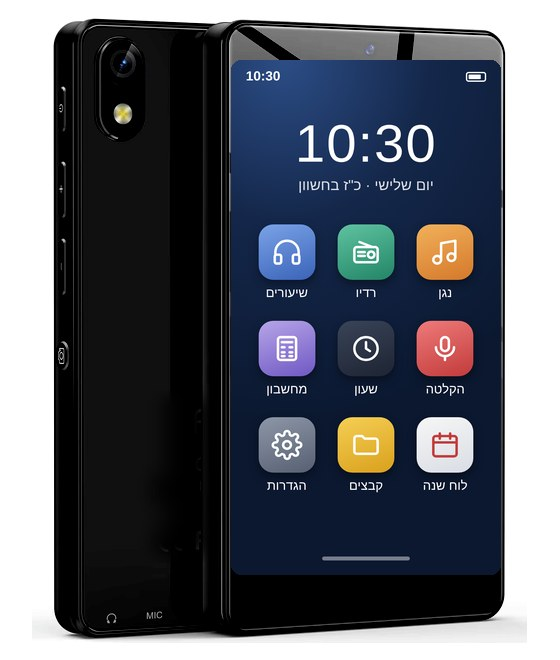
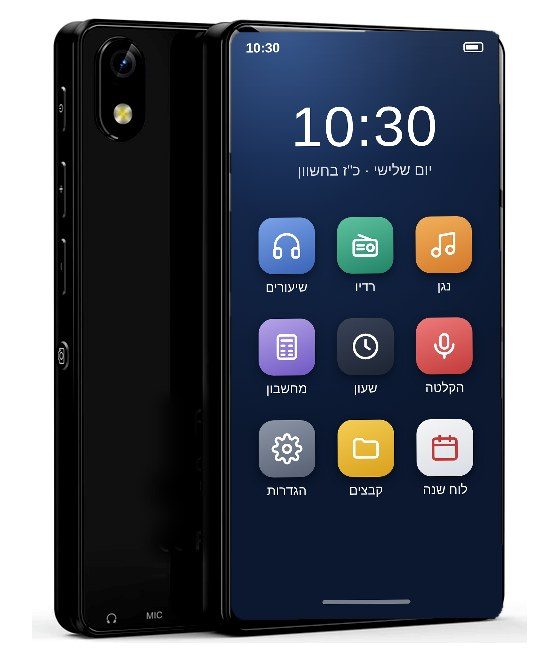
חנות: הקו השמור עם שלוש רמות הכשרה, ומסך בזווית הנכונה לזמיר פלוס
- שלוש רמות: שמור (בסיס בלבד), שמור עם חנות פנימית, עם התקנה מבחוץ; בכולן בלי אינטרנט ובלי סרטים
- בחירת רמה בכל נגן, והרמה נכנסת לטופס ההזמנה
- תמונת הזמיר פלוס: המסך הודבק בהתאמת זווית לפינות התצוגה
- גרסת קטלוג 5

Claude-Session: https://claude.ai/code/session_014D6HPZ3g7nwEb3PWMwCkgY

diff --git a/services/index.html b/services/index.html
@@ -14,7 +14,7 @@
 <link rel="icon" href="/favicon.ico" sizes="48x48">
 <link rel="icon" href="/assets/favicon.svg" type="image/svg+xml">
 <link rel="apple-touch-icon" href="/assets/logo-180.png">
-<link rel="stylesheet" href="/assets/style.css?v=1d6a41ca">
+<link rel="stylesheet" href="/assets/style.css?v=44baf98d">
 </head>
 <body>
 <header class="site"><div class="wrap">
@@ -23,7 +23,7 @@
 </div></header>
 <main>
 <section class="pagehead"><div class="wrap"><h1>השירותים שלנו</h1><p>המומחיות: עריכת אנדרואיד שטכנאי רגיל לא מגיע אליה. בתוכנות, באפליקציות ובאתרים: מהירות ומחירי רצפה שאי אפשר להתחרות בהם.</p></div></section>
-<section class="block"><div class="wrap"><div class="grid c2"><article class="card"><div class="ico"><svg viewBox="0 0 24 24" fill="none" stroke="currentColor" stroke-width="1.8" stroke-linecap="round" stroke-linejoin="round"><path d="M12 3 5 6v6c0 4.5 3 7.5 7 9 4-1.5 7-4.5 7-9V6z"/><path d="m9 12 2 2 4-4"/></svg></div><h3>עריכת מכשירי אנדרואיד</h3><p>ההתמחות המרכזית. עבודות שטכנאי רגיל לא יודע לבצע, או שאצלו לא שוות את המחיר.</p><ul><li>חסימה וניהול מכשיר (MDM), בלי פריצה</li><li>רוט ועריכה של המערכת מבפנים</li><li>קושחה ייעודית, מוכנה לצריבה</li><li>הסרת האינטרנט, הדפדפנים והחנות</li><li>ושאר התאמות לפי הצורך</li></ul><p><span class="price" data-svc="android">מחיר סימלי</span></p><a class="link" href="/android/">לפרטים ←</a></article><article class="card"><div class="ico"><svg viewBox="0 0 24 24" fill="none" stroke="currentColor" stroke-width="1.8" stroke-linecap="round" stroke-linejoin="round"><path d="M9 18V5l11-2v13"/><circle cx="6" cy="18" r="3"/><circle cx="17" cy="16" r="3"/></svg></div><h3>הכשרת נגנים</h3><p>הכשרה מלאה של נגני אנדרואיד מכל הדגמים, כך שיישארו כלי לשמיעה וללימוד בלבד.</p><ul><li>הסרת האינטרנט מהמערכת עצמה</li><li>הסרת דפדפנים, חנות ואפליקציות מיותרות</li><li>השארת נגן, רדיו, הקלטה ושיעורים בלבד</li><li>טעינת שיעורים ותכנים לפי בקשה</li><li>אפשרות לנגן מוכן מהחנות שלנו</li></ul><p><span class="price" data-svc="players">מחיר סימלי</span></p><a class="link" href="/shop/">לפרטים ←</a></article><article class="card"><div class="ico"><svg viewBox="0 0 24 24" fill="none" stroke="currentColor" stroke-width="1.8" stroke-linecap="round" stroke-linejoin="round"><rect x="3" y="4" width="18" height="12" rx="2"/><path d="M8 20h8M12 16v4"/></svg></div><h3>מחשבים: מסוננים או בלי אינטרנט</h3><p>במחשב האינטרנט רק מסונן, או שאין אותו בכלל.</p><ul><li>חיבור לסינון ברמת הספק, בשיטת נטפרי</li><li>הסרת האינטרנט ברמת התוכנה: מערכת בלי רכיבי רשת</li><li>הסרת האינטרנט ברמת החומרה: ניתוק פיזי של כרטיס הרשת וה-WiFi</li><li>התקנת Windows ו-Office נקייה, דרייברים והגדרות</li></ul><p><span class="price" data-svc="computers">מחיר סימלי</span></p><a class="link" href="/contact/?subject=אחר">לפרטים ←</a></article><article class="card"><div class="ico"><svg viewBox="0 0 24 24" fill="none" stroke="currentColor" stroke-width="1.8" stroke-linecap="round" stroke-linejoin="round"><rect x="7" y="2.5" width="10" height="19" rx="2.5"/><path d="M11 18.5h2"/></svg></div><h3>אפליקציות אנדרואיד</h3><p>אפליקציה שעושה בדיוק את מה שצריך, מוכנה מהר עם הכלים המתקדמים ביותר, במחיר שאי אפשר להתחרות בו.</p><ul><li>אפליקציות חדשות מאפס</li><li>שיפור והתאמה של אפליקציות קיימות</li><li>אפליקציות שעובדות בלי אינטרנט, למכשירים סגורים ולנגנים</li><li>אפליקציות לעסקים ולמוסדות</li></ul><p><span class="price" data-svc="apps">מחיר סימלי</span></p><a class="link" href="/contact/?subject=פיתוח">לפרטים ←</a></article><article class="card"><div class="ico"><svg viewBox="0 0 24 24" fill="none" stroke="currentColor" stroke-width="1.8" stroke-linecap="round" stroke-linejoin="round"><path d="m8 7-5 5 5 5M16 7l5 5-5 5M14 4l-4 16"/></svg></div><h3>תוכנות למחשב</h3><p>כלי שחוסך שעות עבודה, מהר ובזול.</p><ul><li>תוכנות וכלים בהתאמה אישית</li><li>אוטומציה לאקסל, לקבצים ולעבודה משרדית</li><li>ניהול נתונים, דוחות והדפסות</li><li>כלים לעסקים, למוסדות ולגמ"חים</li></ul><p><span class="price" data-svc="software">מחיר סימלי</span></p><a class="link" href="/contact/?subject=פיתוח">לפרטים ←</a></article><article class="card"><div class="ico"><svg viewBox="0 0 24 24" fill="none" stroke="currentColor" stroke-width="1.8" stroke-linecap="round" stroke-linejoin="round"><circle cx="12" cy="12" r="9"/><path d="M3 12h18M12 3c3 3 3 15 0 18M12 3c-3 3-3 15 0 18"/></svg></div><h3>בניית אתרים</h3><p>אתר תדמית או אתר עסקי, מעוצב ומהיר, במחיר רצפה.</p><ul><li>עיצוב אישי שמתאים לעסק ולציבור</li><li>מותאם לטלפון ולמחשב</li><li>טופס פנייה שמגיע ישר למייל</li><li>ממשק לעדכון תכנים, מחירים ומוצרים בעצמך</li><li>הקמה בגוגל, כתובת ואחסון</li></ul><p><span class="price" data-svc="websites">מחיר סימלי</span></p><a class="link" href="/contact/?subject=אתר">לפרטים ←</a></article><article class="card"><div class="ico"><svg viewBox="0 0 24 24" fill="none" stroke="currentColor" stroke-width="1.8" stroke-linecap="round" stroke-linejoin="round"><path d="M4 5h9M8.5 3v2M6 5c0 4 2.5 7 6 8M11 5c0 4-3 8-7 9"/><path d="m13 21 4-9 4 9M14.5 18h5"/></svg></div><h3>תרגום אפליקציות</h3><p>אפליקציה בעברית מלאה ומסודרת, גם כשאין לה גרסה רשמית בעברית.</p><ul><li>תרגום הממשק והתכנים</li><li>התאמה לכתיבה מימין לשמאל</li><li>גם לאפליקציות שלא נועדו לתרגום</li></ul><p><span class="price" data-svc="translate">מחיר סימלי</span></p><a class="link" href="/contact/?subject=פיתוח">לפרטים ←</a></article><article class="card"><div class="ico"><svg viewBox="0 0 24 24" fill="none" stroke="currentColor" stroke-width="1.8" stroke-linecap="round" stroke-linejoin="round"><path d="M12 19l7-7 3 3-7 7z"/><path d="M18 13l-1.5-7.5L2 2l3.5 14.5L13 18z"/><circle cx="11" cy="11" r="2"/></svg></div><h3>עיצוב: לוגו, פרסומות ותמונות</h3><p>עיצוב מקצועי ונקי, בהתאמה לציבור ולמותג שלך.</p><ul><li>לוגו ומיתוג</li><li>מודעות ופרסומות</li><li>תמונות ובאנרים לאתר</li></ul><p><span class="price" data-svc="design">מחיר סימלי</span></p><a class="link" href="/contact/?subject=אחר">לפרטים ←</a></article><article class="card"><div class="ico"><svg viewBox="0 0 24 24" fill="none" stroke="currentColor" stroke-width="1.8" stroke-linecap="round" stroke-linejoin="round"><path d="M13 2 4 14h7l-1 8 9-12h-7z"/></svg></div><h3>תוספים וסקריפטים</h3><p>כלי קטן שחוסך עבודה, מוכן מהר ובזול במיוחד.</p><ul><li>תוספים לדפדפן</li><li>סקריפטים ואוטומציות</li><li>חיבור בין תוכנות ושירותים</li></ul><p><span class="price" data-svc="scripts">מחיר סימלי</span></p><a class="link" href="/contact/?subject=פיתוח">לפרטים ←</a></article></div></div></section>
+<section class="block"><div class="wrap"><div class="grid c2"><article class="card"><div class="ico"><svg viewBox="0 0 24 24" fill="none" stroke="currentColor" stroke-width="1.8" stroke-linecap="round" stroke-linejoin="round"><path d="M12 3 5 6v6c0 4.5 3 7.5 7 9 4-1.5 7-4.5 7-9V6z"/><path d="m9 12 2 2 4-4"/></svg></div><h3>עריכת מכשירי אנדרואיד</h3><p>ההתמחות המרכזית. עבודות שטכנאי רגיל לא יודע לבצע, או שאצלו לא שוות את המחיר.</p><ul><li>חסימה וניהול מכשיר (MDM), בלי פריצה</li><li>רוט ועריכה של המערכת מבפנים</li><li>קושחה ייעודית, מוכנה לצריבה</li><li>הסרת האינטרנט, הדפדפנים והחנות</li><li>ושאר התאמות לפי הצורך</li></ul><p><span class="price" data-svc="android">מחיר סימלי</span></p><a class="link" href="/android/">לפרטים ←</a></article><article class="card"><div class="ico"><svg viewBox="0 0 24 24" fill="none" stroke="currentColor" stroke-width="1.8" stroke-linecap="round" stroke-linejoin="round"><path d="M9 18V5l11-2v13"/><circle cx="6" cy="18" r="3"/><circle cx="17" cy="16" r="3"/></svg></div><h3>הכשרת נגנים</h3><p>הכשרה מלאה של נגני אנדרואיד מכל הדגמים, כך שיישארו כלי לשמיעה וללימוד בלבד.</p><ul><li>הסרת האינטרנט מהמערכת עצמה</li><li>הסרת דפדפנים, חנות ואפליקציות מיותרות</li><li>שלוש רמות: בסיס בלבד, חנות פנימית, או התקנה מבחוץ</li><li>בכל הרמות: בלי סרטים</li><li>טעינת שיעורים ותכנים לפי בקשה</li><li>אפשרות לנגן מוכן מהקו השמור שלנו</li></ul><p><span class="price" data-svc="players">מחיר סימלי</span></p><a class="link" href="/shop/">לפרטים ←</a></article><article class="card"><div class="ico"><svg viewBox="0 0 24 24" fill="none" stroke="currentColor" stroke-width="1.8" stroke-linecap="round" stroke-linejoin="round"><rect x="3" y="4" width="18" height="12" rx="2"/><path d="M8 20h8M12 16v4"/></svg></div><h3>מחשבים: מסוננים או בלי אינטרנט</h3><p>במחשב האינטרנט רק מסונן, או שאין אותו בכלל.</p><ul><li>חיבור לסינון ברמת הספק, בשיטת נטפרי</li><li>הסרת האינטרנט ברמת התוכנה: מערכת בלי רכיבי רשת</li><li>הסרת האינטרנט ברמת החומרה: ניתוק פיזי של כרטיס הרשת וה-WiFi</li><li>התקנת Windows ו-Office נקייה, דרייברים והגדרות</li></ul><p><span class="price" data-svc="computers">מחיר סימלי</span></p><a class="link" href="/contact/?subject=אחר">לפרטים ←</a></article><article class="card"><div class="ico"><svg viewBox="0 0 24 24" fill="none" stroke="currentColor" stroke-width="1.8" stroke-linecap="round" stroke-linejoin="round"><rect x="7" y="2.5" width="10" height="19" rx="2.5"/><path d="M11 18.5h2"/></svg></div><h3>אפליקציות אנדרואיד</h3><p>אפליקציה שעושה בדיוק את מה שצריך, מוכנה מהר עם הכלים המתקדמים ביותר, במחיר שאי אפשר להתחרות בו.</p><ul><li>אפליקציות חדשות מאפס</li><li>שיפור והתאמה של אפליקציות קיימות</li><li>אפליקציות שעובדות בלי אינטרנט, למכשירים סגורים ולנגנים</li><li>אפליקציות לעסקים ולמוסדות</li></ul><p><span class="price" data-svc="apps">מחיר סימלי</span></p><a class="link" href="/contact/?subject=פיתוח">לפרטים ←</a></article><article class="card"><div class="ico"><svg viewBox="0 0 24 24" fill="none" stroke="currentColor" stroke-width="1.8" stroke-linecap="round" stroke-linejoin="round"><path d="m8 7-5 5 5 5M16 7l5 5-5 5M14 4l-4 16"/></svg></div><h3>תוכנות למחשב</h3><p>כלי שחוסך שעות עבודה, מהר ובזול.</p><ul><li>תוכנות וכלים בהתאמה אישית</li><li>אוטומציה לאקסל, לקבצים ולעבודה משרדית</li><li>ניהול נתונים, דוחות והדפסות</li><li>כלים לעסקים, למוסדות ולגמ"חים</li></ul><p><span class="price" data-svc="software">מחיר סימלי</span></p><a class="link" href="/contact/?subject=פיתוח">לפרטים ←</a></article><article class="card"><div class="ico"><svg viewBox="0 0 24 24" fill="none" stroke="currentColor" stroke-width="1.8" stroke-linecap="round" stroke-linejoin="round"><circle cx="12" cy="12" r="9"/><path d="M3 12h18M12 3c3 3 3 15 0 18M12 3c-3 3-3 15 0 18"/></svg></div><h3>בניית אתרים</h3><p>אתר תדמית או אתר עסקי, מעוצב ומהיר, במחיר רצפה.</p><ul><li>עיצוב אישי שמתאים לעסק ולציבור</li><li>מותאם לטלפון ולמחשב</li><li>טופס פנייה שמגיע ישר למייל</li><li>ממשק לעדכון תכנים, מחירים ומוצרים בעצמך</li><li>הקמה בגוגל, כתובת ואחסון</li></ul><p><span class="price" data-svc="websites">מחיר סימלי</span></p><a class="link" href="/contact/?subject=אתר">לפרטים ←</a></article><article class="card"><div class="ico"><svg viewBox="0 0 24 24" fill="none" stroke="currentColor" stroke-width="1.8" stroke-linecap="round" stroke-linejoin="round"><path d="M4 5h9M8.5 3v2M6 5c0 4 2.5 7 6 8M11 5c0 4-3 8-7 9"/><path d="m13 21 4-9 4 9M14.5 18h5"/></svg></div><h3>תרגום אפליקציות</h3><p>אפליקציה בעברית מלאה ומסודרת, גם כשאין לה גרסה רשמית בעברית.</p><ul><li>תרגום הממשק והתכנים</li><li>התאמה לכתיבה מימין לשמאל</li><li>גם לאפליקציות שלא נועדו לתרגום</li></ul><p><span class="price" data-svc="translate">מחיר סימלי</span></p><a class="link" href="/contact/?subject=פיתוח">לפרטים ←</a></article><article class="card"><div class="ico"><svg viewBox="0 0 24 24" fill="none" stroke="currentColor" stroke-width="1.8" stroke-linecap="round" stroke-linejoin="round"><path d="M12 19l7-7 3 3-7 7z"/><path d="M18 13l-1.5-7.5L2 2l3.5 14.5L13 18z"/><circle cx="11" cy="11" r="2"/></svg></div><h3>עיצוב: לוגו, פרסומות ותמונות</h3><p>עיצוב מקצועי ונקי, בהתאמה לציבור ולמותג שלך.</p><ul><li>לוגו ומיתוג</li><li>מודעות ופרסומות</li><li>תמונות ובאנרים לאתר</li></ul><p><span class="price" data-svc="design">מחיר סימלי</span></p><a class="link" href="/contact/?subject=אחר">לפרטים ←</a></article><article class="card"><div class="ico"><svg viewBox="0 0 24 24" fill="none" stroke="currentColor" stroke-width="1.8" stroke-linecap="round" stroke-linejoin="round"><path d="M13 2 4 14h7l-1 8 9-12h-7z"/></svg></div><h3>תוספים וסקריפטים</h3><p>כלי קטן שחוסך עבודה, מוכן מהר ובזול במיוחד.</p><ul><li>תוספים לדפדפן</li><li>סקריפטים ואוטומציות</li><li>חיבור בין תוכנות ושירותים</li></ul><p><span class="price" data-svc="scripts">מחיר סימלי</span></p><a class="link" href="/contact/?subject=פיתוח">לפרטים ←</a></article></div></div></section>
 <section class="block alt"><div class="wrap">
 <h2 class="title">מחירון</h2>
 <p class="sub">המחירים מתעדכנים מעת לעת. כל עבודה מקבלת הצעה ברורה מראש.</p>
@@ -50,5 +50,5 @@
   </div>
   <div class="legal">© כושר טק</div>
 </div></footer>
-<script src="/assets/site.js?v=63f7e604" defer></script>
+<script src="/assets/site.js?v=2f64a980" defer></script>
 </body></html>

diff --git a/shop/index.html b/shop/index.html
@@ -4,17 +4,17 @@
 <meta charset="utf-8">
 <meta name="viewport" content="width=device-width,initial-scale=1">
 <title>חנות נגנים | כושר טק: נגני אנדרואיד מוכשרים</title>
-<meta name="description" content="נגני אנדרואיד מוכשרים, סדרת הזמיר: הזמיר (אנדרואיד 13, מסך 3.99 אינץ&#x27;, Bluetooth ורדיו) והזמיר פלוס עם אחסון כפול ופנס. מגיעים מוכנים, בלי אינטרנט.">
+<meta name="description" content="הקו השמור: נגני אנדרואיד מוכשרים בלי אינטרנט ובלי סרטים, בשלוש רמות הכשרה. סדרת הזמיר: הזמיר (אנדרואיד 13, מסך 3.99 אינץ&#x27;, Bluetooth ורדיו) והזמיר פלוס עם אחסון כפול ופנס. מגיעים מוכנים, בלי אינטרנט.">
 <meta name="theme-color" content="#0a3326">
 <link rel="canonical" href="https://kosher-tek.com/shop/">
 <meta property="og:type" content="website"><meta property="og:locale" content="he_IL"><meta property="og:site_name" content="כושר טק">
-<meta property="og:title" content="חנות נגנים | כושר טק: נגני אנדרואיד מוכשרים"><meta property="og:description" content="נגני אנדרואיד מוכשרים, סדרת הזמיר: הזמיר (אנדרואיד 13, מסך 3.99 אינץ&#x27;, Bluetooth ורדיו) והזמיר פלוס עם אחסון כפול ופנס. מגיעים מוכנים, בלי אינטרנט.">
+<meta property="og:title" content="חנות נגנים | כושר טק: נגני אנדרואיד מוכשרים"><meta property="og:description" content="הקו השמור: נגני אנדרואיד מוכשרים בלי אינטרנט ובלי סרטים, בשלוש רמות הכשרה. סדרת הזמיר: הזמיר (אנדרואיד 13, מסך 3.99 אינץ&#x27;, Bluetooth ורדיו) והזמיר פלוס עם אחסון כפול ופנס. מגיעים מוכנים, בלי אינטרנט.">
 <meta property="og:url" content="https://kosher-tek.com/shop/"><meta property="og:image" content="https://kosher-tek.com/assets/og.png">
 <meta name="twitter:card" content="summary_large_image">
 <link rel="icon" href="/favicon.ico" sizes="48x48">
 <link rel="icon" href="/assets/favicon.svg" type="image/svg+xml">
 <link rel="apple-touch-icon" href="/assets/logo-180.png">
-<link rel="stylesheet" href="/assets/style.css?v=1d6a41ca">
+<link rel="stylesheet" href="/assets/style.css?v=44baf98d">
 </head>
 <body>
 <header class="site"><div class="wrap">
@@ -22,8 +22,18 @@
   <nav class="main" aria-label="ראשי"><a href="/">בית</a><a href="/services/">שירותים</a><a href="/android/">אנדרואיד</a><a href="/shop/" aria-current="page">חנות</a><a href="/contact/">צור קשר</a></nav>
 </div></header>
 <main>
-<section class="pagehead"><div class="wrap"><h1>נגנים מוכשרים</h1><p>נגני אנדרואיד שנבחרו בקפידה ומגיעים מוכשרים ומוכנים לשימוש. התשלום והמסירה בתיאום ישיר.</p></div></section>
-<section class="block"><div class="wrap"><div class="grid c2" id="products"></div>
+<section class="pagehead"><div class="wrap"><h1>הקו השמור</h1><p>נגני אנדרואיד שנבחרו בקפידה ומגיעים מוכשרים ומוכנים לשימוש. אנחנו לא מוכרים מה שאנחנו לא עומדים מאחוריו.</p></div></section>
+<section class="block"><div class="wrap">
+<div class="guard"><strong>בכל הנגנים שלנו:</strong> בלי אינטרנט ובלי שום אפשרות לצפות בסרטים. זה לא תוסף, זה הבסיס.</div>
+<h2 class="title">שלוש רמות הכשרה</h2>
+<p class="sub">כל נגן בחנות אפשר להזמין בכל אחת מהרמות. בוחרים לפי הצורך, מהשמורה ביותר.</p>
+<div class="grid c3 tiers">
+<article class="card tier"><span class="tnum">1</span><h3>שמור</h3><p>אפליקציות בסיס בלבד, בלי שום התקנה.</p><ul><li>נגן, רדיו, הקלטה ושיעורים</li><li>שעון, מחשבון, לוח שנה וקבצים</li><li>אי אפשר להוסיף אפליקציות</li></ul><span class="tag">השמור ביותר</span></article>
+<article class="card tier"><span class="tnum">2</span><h3>שמור עם חנות פנימית</h3><p>כל הבסיס, ובנוסף חנות פנימית נרחבת של אפליקציות שנבדקו ואושרו.</p><ul><li>מבחר רחב של אפליקציות מאושרות</li><li>מתקינים רק מתוך החנות הפנימית</li><li>בלי התקנה מבחוץ</li></ul></article>
+<article class="card tier"><span class="tnum">3</span><h3>עם התקנה מבחוץ</h3><p>לשימוש מתקדם: אפשר להתקין אפליקציות גם מבחוץ.</p><ul><li>התקנת קבצי אפליקציה מבחוץ</li><li>עדיין בלי אינטרנט</li><li>עדיין בלי סרטים</li></ul></article>
+</div>
+<h2 class="title" style="margin-top:44px">הנגנים</h2>
+<div class="grid c2" id="products"></div>
 <div class="note" style="margin-top:24px">התשלום אינו מתבצע באתר. אחרי יצירת קשר נתאם הכול ישירות.</div></div></section>
 </main>
 <footer class="site"><div class="wrap">
@@ -34,5 +44,5 @@
   </div>
   <div class="legal">© כושר טק</div>
 </div></footer>
-<script src="/assets/site.js?v=63f7e604" defer></script>
+<script src="/assets/site.js?v=2f64a980" defer></script>
 </body></html>

diff --git a/index.html b/index.html
@@ -14,7 +14,7 @@
 <link rel="icon" href="/favicon.ico" sizes="48x48">
 <link rel="icon" href="/assets/favicon.svg" type="image/svg+xml">
 <link rel="apple-touch-icon" href="/assets/logo-180.png">
-<link rel="stylesheet" href="/assets/style.css?v=1d6a41ca">
+<link rel="stylesheet" href="/assets/style.css?v=44baf98d">
 </head>
 <body>
 <header class="site"><div class="wrap">
@@ -38,7 +38,7 @@
   <p class="sub">המומחיות היא עריכת אנדרואיד. בתוכנות, באפליקציות ובאתרים היתרון הוא מהירות ומחיר.</p>
   <div class="grid c3">
     <article class="card"><div class="ico"><svg viewBox="0 0 24 24" fill="none" stroke="currentColor" stroke-width="1.8" stroke-linecap="round" stroke-linejoin="round"><path d="M12 3 5 6v6c0 4.5 3 7.5 7 9 4-1.5 7-4.5 7-9V6z"/><path d="m9 12 2 2 4-4"/></svg></div><h3>עריכת מכשירי אנדרואיד</h3><p>ההתמחות המרכזית: עבודות שטכנאי רגיל לא יודע לבצע, או שאצלו לא שוות את המחיר.</p><ul><li>חסימה וניהול מכשיר (MDM)</li><li>רוט ועריכת המערכת מבפנים</li><li>קושחה ייעודית</li><li>הסרת אינטרנט, דפדפנים וחנות, ושאר התאמות</li></ul><p><span class="price" data-svc="android">מחיר סימלי</span></p><a class="link" href="/android/">לפרטים ←</a></article>
-    <article class="card"><div class="ico"><svg viewBox="0 0 24 24" fill="none" stroke="currentColor" stroke-width="1.8" stroke-linecap="round" stroke-linejoin="round"><path d="M9 18V5l11-2v13"/><circle cx="6" cy="18" r="3"/><circle cx="17" cy="16" r="3"/></svg></div><h3>הכשרת נגנים</h3><p>הכשרה מלאה של נגני אנדרואיד מכל הדגמים, כך שיישארו כלי לשמיעה וללימוד בלבד.</p><ul><li>הסרת האינטרנט מהמערכת</li><li>הסרת דפדפנים, חנות ואפליקציות מיותרות</li><li>טעינת שיעורים ותכנים לפי בקשה</li></ul><p><span class="price" data-svc="players">מחיר סימלי</span></p><a class="link" href="/contact/?subject=אנדרואיד">לפרטים ←</a></article>
+    <article class="card"><div class="ico"><svg viewBox="0 0 24 24" fill="none" stroke="currentColor" stroke-width="1.8" stroke-linecap="round" stroke-linejoin="round"><path d="M9 18V5l11-2v13"/><circle cx="6" cy="18" r="3"/><circle cx="17" cy="16" r="3"/></svg></div><h3>הכשרת נגנים</h3><p>הכשרה מלאה של נגני אנדרואיד מכל הדגמים, כך שיישארו כלי לשמיעה וללימוד בלבד.</p><ul><li>הסרת האינטרנט מהמערכת</li><li>שלוש רמות הכשרה, בלי סרטים</li><li>טעינת שיעורים ותכנים לפי בקשה</li></ul><p><span class="price" data-svc="players">מחיר סימלי</span></p><a class="link" href="/contact/?subject=אנדרואיד">לפרטים ←</a></article>
     <article class="card"><div class="ico"><svg viewBox="0 0 24 24" fill="none" stroke="currentColor" stroke-width="1.8" stroke-linecap="round" stroke-linejoin="round"><rect x="3" y="4" width="18" height="12" rx="2"/><path d="M8 20h8M12 16v4"/></svg></div><h3>מחשבים: מסוננים או בלי אינטרנט</h3><p>התאמת מחשבים לבית, לעסק ולמוסד: אינטרנט מסונן בלבד, או מחשב בלי אינטרנט בכלל.</p><ul><li>חיבור לסינון ברמת הספק, בשיטת נטפרי</li><li>הסרת האינטרנט ברמת התוכנה וברמת החומרה</li><li>התקנת Windows ו-Office נקייה</li></ul><p><span class="price" data-svc="computers">מחיר סימלי</span></p><a class="link" href="/services/">לפרטים ←</a></article>
     <article class="card"><div class="ico"><svg viewBox="0 0 24 24" fill="none" stroke="currentColor" stroke-width="1.8" stroke-linecap="round" stroke-linejoin="round"><rect x="7" y="2.5" width="10" height="19" rx="2.5"/><path d="M11 18.5h2"/></svg></div><h3>אפליקציות אנדרואיד</h3><p>אפליקציה ייעודית לעסק, למוסד או למכשיר סגור. מוכנה מהר, במחיר שאי אפשר להתחרות בו.</p><ul><li>אפליקציות חדשות מאפס</li><li>שיפור והתאמה של אפליקציות קיימות</li><li>אפליקציות שעובדות בלי אינטרנט</li></ul><p><span class="price" data-svc="apps">מחיר סימלי</span></p><a class="link" href="/contact/?subject=פיתוח">לפרטים ←</a></article>
     <article class="card"><div class="ico"><svg viewBox="0 0 24 24" fill="none" stroke="currentColor" stroke-width="1.8" stroke-linecap="round" stroke-linejoin="round"><path d="m8 7-5 5 5 5M16 7l5 5-5 5M14 4l-4 16"/></svg></div><h3>תוכנות למחשב</h3><p>כלי שעושה בדיוק את מה שצריך. מהר וזול, בלי לשלם סכומי עתק למתכנת.</p><ul><li>תוכנות וכלים בהתאמה אישית</li><li>אוטומציה לאקסל, לקבצים ולעבודה משרדית</li><li>כלים לעסקים, למוסדות ולגמ"חים</li></ul><p><span class="price" data-svc="software">מחיר סימלי</span></p><a class="link" href="/contact/?subject=פיתוח">לפרטים ←</a></article>
@@ -81,5 +81,5 @@
   </div>
   <div class="legal">© כושר טק</div>
 </div></footer>
-<script src="/assets/site.js?v=63f7e604" defer></script>
+<script src="/assets/site.js?v=2f64a980" defer></script>
 </body></html>

diff --git a/assets/style.css b/assets/style.css
@@ -117,3 +117,12 @@ ul.feat li{background:var(--card);border:1px solid var(--line);border-inline-sta
 .ctaline:hover{background:#ffffff1a;text-decoration:none}
 .ctaline span{color:var(--gold-soft);font-size:.9rem}
 @media (max-width:760px){.ctaband .wrap{grid-template-columns:1fr}}
+.guard{background:var(--green);color:#fff;border-radius:14px;padding:16px 20px;margin-bottom:30px;font-size:1.08rem;border-inline-start:6px solid var(--gold)}
+.guard strong{color:var(--gold-soft)}
+.tier{position:relative;display:grid;gap:8px;align-content:start}
+.tier h3{margin:0}.tier p{margin:0}.tier ul{margin:0;padding-inline-start:20px;color:var(--ink-soft)}
+.tnum{position:absolute;top:16px;inset-inline-end:18px;font-size:2.4rem;font-weight:800;color:var(--gold-soft);line-height:1}
+.tier .tag{justify-self:start;background:var(--gold);color:#1a1a1a;border-radius:999px;padding:2px 12px;font-size:.82rem;font-weight:700}
+.tierpick{display:flex;flex-wrap:wrap;gap:6px;align-items:center;font-size:.9rem;color:var(--ink-soft)}
+.tierpick button{font:inherit;border:1px solid var(--line);background:var(--card);color:var(--ink);border-radius:999px;padding:4px 12px;cursor:pointer}
+.tierpick button.on{background:var(--green);border-color:var(--green);color:#fff}

diff --git a/assets/site.js b/assets/site.js
@@ -70,6 +70,21 @@
         c.appendChild(line);
         var a = el("a", p.status === "in" ? "btn primary" : "btn ghost", p.status === "in" ? "להזמנה" : p.status === "out" ? "עדכנו אותי כשיחזור" : "לבירור והזמנה");
         a.href = "/contact/?product=" + encodeURIComponent(p.name || "");
+        if (p.tiers) {
+          var TIERS = ["שמור", "שמור עם חנות פנימית", "עם התקנה מבחוץ"];
+          var pick = el("div", "tierpick");
+          pick.appendChild(el("span", null, "רמת הכשרה:"));
+          TIERS.forEach(function (t, i) {
+            var b = el("button", i ? "" : "on", t); b.type = "button";
+            b.addEventListener("click", function () {
+              Array.prototype.forEach.call(pick.querySelectorAll("button"), function (x) { x.className = x === b ? "on" : ""; });
+              a.href = "/contact/?product=" + encodeURIComponent((p.name || "") + " · " + t);
+            });
+            pick.appendChild(b);
+          });
+          a.href = "/contact/?product=" + encodeURIComponent((p.name || "") + " · " + TIERS[0]);
+          c.appendChild(pick);
+        }
         c.appendChild(a);
         box.appendChild(c);
       });

diff --git a/android/index.html b/android/index.html
@@ -14,7 +14,7 @@
 <link rel="icon" href="/favicon.ico" sizes="48x48">
 <link rel="icon" href="/assets/favicon.svg" type="image/svg+xml">
 <link rel="apple-touch-icon" href="/assets/logo-180.png">
-<link rel="stylesheet" href="/assets/style.css?v=1d6a41ca">
+<link rel="stylesheet" href="/assets/style.css?v=44baf98d">
 </head>
 <body>
 <header class="site"><div class="wrap">
@@ -72,5 +72,5 @@
   </div>
   <div class="legal">© כושר טק</div>
 </div></footer>
-<script src="/assets/site.js?v=63f7e604" defer></script>
+<script src="/assets/site.js?v=2f64a980" defer></script>
 </body></html>

diff --git a/contact/index.html b/contact/index.html
@@ -14,7 +14,7 @@
 <link rel="icon" href="/favicon.ico" sizes="48x48">
 <link rel="icon" href="/assets/favicon.svg" type="image/svg+xml">
 <link rel="apple-touch-icon" href="/assets/logo-180.png">
-<link rel="stylesheet" href="/assets/style.css?v=1d6a41ca">
+<link rel="stylesheet" href="/assets/style.css?v=44baf98d">
 </head>
 <body>
 <header class="site"><div class="wrap">
@@ -62,5 +62,5 @@
   </div>
   <div class="legal">© כושר טק</div>
 </div></footer>
-<script src="/assets/site.js?v=63f7e604" defer></script>
+<script src="/assets/site.js?v=2f64a980" defer></script>
 </body></html>

diff --git a/request/index.html b/request/index.html
@@ -14,7 +14,7 @@
 <link rel="icon" href="/favicon.ico" sizes="48x48">
 <link rel="icon" href="/assets/favicon.svg" type="image/svg+xml">
 <link rel="apple-touch-icon" href="/assets/logo-180.png">
-<link rel="stylesheet" href="/assets/style.css?v=1d6a41ca">
+<link rel="stylesheet" href="/assets/style.css?v=44baf98d">
 </head>
 <body>
 <header class="site"><div class="wrap">
@@ -39,5 +39,5 @@
   </div>
   <div class="legal">© כושר טק</div>
 </div></footer>
-<script src="/assets/site.js?v=63f7e604" defer></script>
+<script src="/assets/site.js?v=2f64a980" defer></script>
 </body></html>

diff --git a/admin/index.html b/admin/index.html
@@ -7,7 +7,7 @@
 <title>ניהול | כושר טק</title>
 <link rel="icon" href="/assets/favicon.svg" type="image/svg+xml">
 <script src="/assets/ask.js?v=525f939b" defer></script>
-<link rel="stylesheet" href="/assets/style.css?v=1d6a41ca">
+<link rel="stylesheet" href="/assets/style.css?v=44baf98d">
 <style>
 [hidden]{display:none!important}
 body{font-size:16px;background:var(--bg)}

diff --git a/gen.py b/gen.py
@@ -129,7 +129,7 @@ home += f'''
   <p class="sub">המומחיות היא עריכת אנדרואיד. בתוכנות, באפליקציות ובאתרים היתרון הוא מהירות ומחיר.</p>
   <div class="grid c3">
     {card("shield","עריכת מכשירי אנדרואיד","ההתמחות המרכזית: עבודות שטכנאי רגיל לא יודע לבצע, או שאצלו לא שוות את המחיר.",["חסימה וניהול מכשיר (MDM)","רוט ועריכת המערכת מבפנים","קושחה ייעודית","הסרת אינטרנט, דפדפנים וחנות, ושאר התאמות"],link="/android/",svc="android")}
-    {card("music","הכשרת נגנים","הכשרה מלאה של נגני אנדרואיד מכל הדגמים, כך שיישארו כלי לשמיעה וללימוד בלבד.",["הסרת האינטרנט מהמערכת","הסרת דפדפנים, חנות ואפליקציות מיותרות","טעינת שיעורים ותכנים לפי בקשה"],link="/contact/?subject=אנדרואיד",svc="players")}
+    {card("music","הכשרת נגנים","הכשרה מלאה של נגני אנדרואיד מכל הדגמים, כך שיישארו כלי לשמיעה וללימוד בלבד.",["הסרת האינטרנט מהמערכת","שלוש רמות הכשרה, בלי סרטים","טעינת שיעורים ותכנים לפי בקשה"],link="/contact/?subject=אנדרואיד",svc="players")}
     {card("win","מחשבים: מסוננים או בלי אינטרנט","התאמת מחשבים לבית, לעסק ולמוסד: אינטרנט מסונן בלבד, או מחשב בלי אינטרנט בכלל.",["חיבור לסינון ברמת הספק, בשיטת נטפרי","הסרת האינטרנט ברמת התוכנה וברמת החומרה","התקנת Windows ו-Office נקייה"],link="/services/",svc="computers")}
     {card("phone","אפליקציות אנדרואיד","אפליקציה ייעודית לעסק, למוסד או למכשיר סגור. מוכנה מהר, במחיר שאי אפשר להתחרות בו.",["אפליקציות חדשות מאפס","שיפור והתאמה של אפליקציות קיימות","אפליקציות שעובדות בלי אינטרנט"],link="/contact/?subject=פיתוח",svc="apps")}
     {card("code","תוכנות למחשב","כלי שעושה בדיוק את מה שצריך. מהר וזול, בלי לשלם סכומי עתק למתכנת.",["תוכנות וכלים בהתאמה אישית","אוטומציה לאקסל, לקבצים ולעבודה משרדית","כלים לעסקים, למוסדות ולגמ\"חים"],link="/contact/?subject=פיתוח",svc="software")}
@@ -158,7 +158,7 @@ s = head("שירותים ומחירון | כושר טק",
 s += '''<section class="pagehead"><div class="wrap"><h1>השירותים שלנו</h1><p>המומחיות: עריכת אנדרואיד שטכנאי רגיל לא מגיע אליה. בתוכנות, באפליקציות ובאתרים: מהירות ומחירי רצפה שאי אפשר להתחרות בהם.</p></div></section>
 <section class="block"><div class="wrap"><div class="grid c2">'''
 s += card("shield","עריכת מכשירי אנדרואיד","ההתמחות המרכזית. עבודות שטכנאי רגיל לא יודע לבצע, או שאצלו לא שוות את המחיר.",["חסימה וניהול מכשיר (MDM), בלי פריצה","רוט ועריכה של המערכת מבפנים","קושחה ייעודית, מוכנה לצריבה","הסרת האינטרנט, הדפדפנים והחנות","ושאר התאמות לפי הצורך"],link="/android/",svc="android")
-s += card("music","הכשרת נגנים","הכשרה מלאה של נגני אנדרואיד מכל הדגמים, כך שיישארו כלי לשמיעה וללימוד בלבד.",["הסרת האינטרנט מהמערכת עצמה","הסרת דפדפנים, חנות ואפליקציות מיותרות","השארת נגן, רדיו, הקלטה ושיעורים בלבד","טעינת שיעורים ותכנים לפי בקשה","אפשרות לנגן מוכן מהחנות שלנו"],link="/shop/",svc="players")
+s += card("music","הכשרת נגנים","הכשרה מלאה של נגני אנדרואיד מכל הדגמים, כך שיישארו כלי לשמיעה וללימוד בלבד.",["הסרת האינטרנט מהמערכת עצמה","הסרת דפדפנים, חנות ואפליקציות מיותרות","שלוש רמות: בסיס בלבד, חנות פנימית, או התקנה מבחוץ","בכל הרמות: בלי סרטים","טעינת שיעורים ותכנים לפי בקשה","אפשרות לנגן מוכן מהקו השמור שלנו"],link="/shop/",svc="players")
 s += card("win","מחשבים: מסוננים או בלי אינטרנט","במחשב האינטרנט רק מסונן, או שאין אותו בכלל.",["חיבור לסינון ברמת הספק, בשיטת נטפרי","הסרת האינטרנט ברמת התוכנה: מערכת בלי רכיבי רשת","הסרת האינטרנט ברמת החומרה: ניתוק פיזי של כרטיס הרשת וה-WiFi","התקנת Windows ו-Office נקייה, דרייברים והגדרות"],link="/contact/?subject=אחר",svc="computers")
 s += card("phone","אפליקציות אנדרואיד","אפליקציה שעושה בדיוק את מה שצריך, מוכנה מהר עם הכלים המתקדמים ביותר, במחיר שאי אפשר להתחרות בו.",["אפליקציות חדשות מאפס","שיפור והתאמה של אפליקציות קיימות","אפליקציות שעובדות בלי אינטרנט, למכשירים סגורים ולנגנים","אפליקציות לעסקים ולמוסדות"],link="/contact/?subject=פיתוח",svc="apps")
 s += card("code","תוכנות למחשב","כלי שחוסך שעות עבודה, מהר ובזול.",["תוכנות וכלים בהתאמה אישית","אוטומציה לאקסל, לקבצים ולעבודה משרדית","ניהול נתונים, דוחות והדפסות","כלים לעסקים, למוסדות ולגמ\"חים"],link="/contact/?subject=פיתוח",svc="software")
@@ -221,9 +221,19 @@ a += foot()
 write("/android/", a)
 # ---------- SHOP ----------
 sh = head("חנות נגנים | כושר טק: נגני אנדרואיד מוכשרים",
-          "נגני אנדרואיד מוכשרים, סדרת הזמיר: הזמיר (אנדרואיד 13, מסך 3.99 אינץ', Bluetooth ורדיו) והזמיר פלוס עם אחסון כפול ופנס. מגיעים מוכנים, בלי אינטרנט.", "/shop/")
-sh += '''<section class="pagehead"><div class="wrap"><h1>נגנים מוכשרים</h1><p>נגני אנדרואיד שנבחרו בקפידה ומגיעים מוכשרים ומוכנים לשימוש. התשלום והמסירה בתיאום ישיר.</p></div></section>
-<section class="block"><div class="wrap"><div class="grid c2" id="products"></div>
+          "הקו השמור: נגני אנדרואיד מוכשרים בלי אינטרנט ובלי סרטים, בשלוש רמות הכשרה. סדרת הזמיר: הזמיר (אנדרואיד 13, מסך 3.99 אינץ', Bluetooth ורדיו) והזמיר פלוס עם אחסון כפול ופנס. מגיעים מוכנים, בלי אינטרנט.", "/shop/")
+sh += '''<section class="pagehead"><div class="wrap"><h1>הקו השמור</h1><p>נגני אנדרואיד שנבחרו בקפידה ומגיעים מוכשרים ומוכנים לשימוש. אנחנו לא מוכרים מה שאנחנו לא עומדים מאחוריו.</p></div></section>
+<section class="block"><div class="wrap">
+<div class="guard"><strong>בכל הנגנים שלנו:</strong> בלי אינטרנט ובלי שום אפשרות לצפות בסרטים. זה לא תוסף, זה הבסיס.</div>
+<h2 class="title">שלוש רמות הכשרה</h2>
+<p class="sub">כל נגן בחנות אפשר להזמין בכל אחת מהרמות. בוחרים לפי הצורך, מהשמורה ביותר.</p>
+<div class="grid c3 tiers">
+<article class="card tier"><span class="tnum">1</span><h3>שמור</h3><p>אפליקציות בסיס בלבד, בלי שום התקנה.</p><ul><li>נגן, רדיו, הקלטה ושיעורים</li><li>שעון, מחשבון, לוח שנה וקבצים</li><li>אי אפשר להוסיף אפליקציות</li></ul><span class="tag">השמור ביותר</span></article>
+<article class="card tier"><span class="tnum">2</span><h3>שמור עם חנות פנימית</h3><p>כל הבסיס, ובנוסף חנות פנימית נרחבת של אפליקציות שנבדקו ואושרו.</p><ul><li>מבחר רחב של אפליקציות מאושרות</li><li>מתקינים רק מתוך החנות הפנימית</li><li>בלי התקנה מבחוץ</li></ul></article>
+<article class="card tier"><span class="tnum">3</span><h3>עם התקנה מבחוץ</h3><p>לשימוש מתקדם: אפשר להתקין אפליקציות גם מבחוץ.</p><ul><li>התקנת קבצי אפליקציה מבחוץ</li><li>עדיין בלי אינטרנט</li><li>עדיין בלי סרטים</li></ul></article>
+</div>
+<h2 class="title" style="margin-top:44px">הנגנים</h2>
+<div class="grid c2" id="products"></div>
 <div class="note" style="margin-top:24px">התשלום אינו מתבצע באתר. אחרי יצירת קשר נתאם הכול ישירות.</div></div></section>
 '''
 sh += foot()

diff --git a/server/app.py b/server/app.py
@@ -35,16 +35,16 @@ DEFAULT = {
         {"id": "m393", "name": "הזמיר",
          "desc": "נגן אנדרואיד 13 קומפקטי, מגיע מוכשר ומוכן לשמיעה וללימוד.\nמסך 3.99 אינץ' חד (400×960)\nמעבד 8 ליבות, 3GB זיכרון ו-16GB אחסון\nכרטיס זיכרון עד 1TB\nBluetooth 5.0 ורדיו FM, מגיע בלי אינטרנט\nשמע איכותי (DAC) וחיישן תנועה\nסוללה 1250mAh\nבקופסה: אוזניות, כבל USB-C וכיסוי מגן",
          "price": "", "status": "out", "image": "/assets/products/zamir-set.jpg",
-         "gallery": ["/assets/products/zamir-set.jpg", "/assets/products/zamir-front.jpg"], "visible": True},
+         "gallery": ["/assets/products/zamir-set.jpg", "/assets/products/zamir-front.jpg"], "tiers": True, "visible": True},
         {"id": "m36plus", "name": "הזמיר פלוס",
          "desc": "הדגם המשודרג בסדרת הזמיר: אחסון כפול ופנס, מגיע מוכשר ומוכן לשמיעה וללימוד.\n32GB אחסון\nכרטיס זיכרון\nמצלמה ופנס (אפשר גם בלי מצלמה)\nכפתור ייעודי בצד המכשיר",
          "price": "", "status": "order", "image": "/assets/products/zamir-plus-front.jpg",
-         "gallery": ["/assets/products/zamir-plus-front.jpg", "/assets/products/zamir-plus-back.jpg"], "visible": True},
+         "gallery": ["/assets/products/zamir-plus-front.jpg", "/assets/products/zamir-plus-back.jpg"], "tiers": True, "visible": True},
         {"id": "other", "name": "דגמים נוספים", "desc": "יש דגמים נוספים בהזמנה מיוחדת. אפשר לברר זמינות ומחיר.",
          "price": "לפי דגם", "status": "order", "image": "", "visible": True},
     ],
 }
-CATALOG = 4  # bump to roll new default products into an existing data file
+CATALOG = 5  # bump to roll new default products into an existing data file
 
 def secret():
     os.makedirs(DIR, exist_ok=True)
@@ -103,7 +103,7 @@ def clean_products(items):
         gal = [x for x in gal if x.startswith("/uploads/") or x.startswith("/assets/products/")]
         out.append({"id": clip(p.get("id"), 40) or uuid.uuid4().hex[:8], "name": clip(p.get("name"), 120),
                     "desc": clip(p.get("desc"), 600), "price": clip(p.get("price"), 60), "status": status,
-                    "image": img, "gallery": gal, "visible": bool(p.get("visible", True))})
+                    "image": img, "gallery": gal, "tiers": bool(p.get("tiers")), "visible": bool(p.get("visible", True))})
     return out
 
 def clean_services(d):
